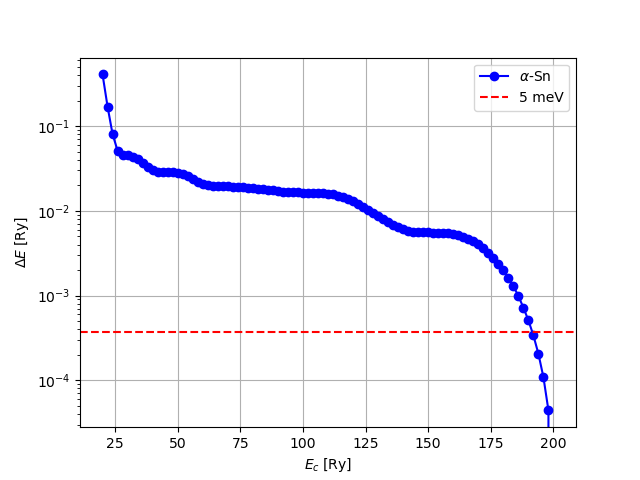
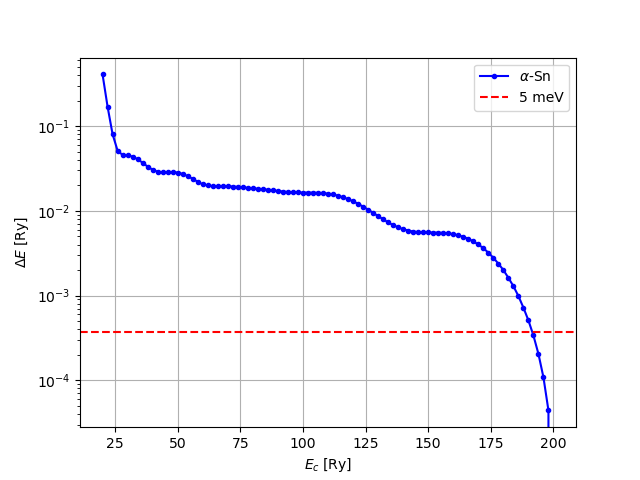
got references and finished all code

diff --git a/exercise-4/Si.py b/exercise-4/Si.py
@@ -224,31 +224,82 @@ def plot_4(filename1, filename2, filename3, filename4):
     fig, ax = plt.subplots(2, 2, figsize=(12, 10), sharex='col', sharey='row')
 
     ax[0, 0].plot(V, E, '.', label='QE data')
-    ax[0, 0].set_ylabel(r'Energy [Ry]')
-    ax[0, 0].legend()
+    ax[0, 0].set_ylabel(r'Energy [Ry]', fontsize=16)
+    ax[0, 0].legend(fontsize=12)
 
     ax[0, 1].plot(V, E, '.', label='QE data')
     ax[0, 1].plot(V, E_1, color='red', label='Murnaghan')
-    ax[0, 1].legend()
+    ax[0, 1].legend(fontsize=12)
 
     ax[1, 0].plot(V, E, '.', label='QE data')
     ax[1, 0].plot(V, E_2, color='red',label='Birch-Murnaghan')
-    ax[1, 0].set_xlabel(r'Volume [$\AA^3$]')
-    ax[1, 0].set_ylabel(r'Energy [Ry]')
-    ax[1, 0].legend()
+    ax[1, 0].set_xlabel(r'Volume [$\AA^3$]', fontsize=16)
+    ax[1, 0].set_ylabel(r'Energy [Ry]', fontsize=16)
+    ax[1, 0].legend(fontsize=12)
 
     ax[1, 1].plot(V, E, '.', label='QE data')
     ax[1, 1].plot(V, E_3, color='red', label='Vinet')
-    ax[1, 1].set_xlabel(r'Volume [$\AA^3$]')
-    ax[1, 1].legend()
+    ax[1, 1].set_xlabel(r'Volume [$\AA^3$]', fontsize=16)
+    ax[1, 1].legend(fontsize=12)
 
     plt.tight_layout()
     plt.show()
 
+def bulk_properties(filename):
+    """Determine the bulk properties of silicon from the fitted parameters 
+    of the three equations of state and write to file"""
+    data = pd.read_csv(filename)
+    V0_M = data["V0 [A^3/atom]"].values[0] * 1e-30 # convert from A^3 to m^3
+    B0_M = data["B0 [GPa]"].values[0]      * 1e9 # convert from GPa to Pa
+    V0_B = data["V0 [A^3/atom]"].values[1] * 1e-30 # convert from A^3 to m^3
+    B0_B = data["B0 [GPa]"].values[1]      * 1e9 # convert from GPa to Pa
+    V0_V = data["V0 [A^3/atom]"].values[2] * 1e-30 # convert from A^3 to m^3
+    B0_V = data["B0 [GPa]"].values[2]      * 1e9 # convert from GPa to Pa
+
+    h_cross = 1.054571726e-34 # Planck's constant in Js
+    m_si = 28.0855 * 1.66053906660e-27 # mass of silicon atom in kg
+    kB = 1.3806488e-23 # Boltzmann constant in J/K
+
+    # Calculate the mass density of Si from each EOS
+    rho_M = m_si / V0_M
+    rho_B = m_si / V0_B
+    rho_V = m_si / V0_V
+
+    # Calculate the sound velocity in Si from each EOS
+    cL_M = np.sqrt(B0_M / rho_M)
+    cL_B = np.sqrt(B0_B / rho_B)
+    cL_V = np.sqrt(B0_V / rho_V)
+
+    # Calculate the Debye temperature of Si from each EOS
+    kD_M = (6 * np.pi**2 / V0_M)**(1 / 3)
+    kD_B = (6 * np.pi**2 / V0_B)**(1 / 3)
+    kD_V = (6 * np.pi**2 / V0_V)**(1 / 3)
+
+    theta_M = h_cross * cL_M * kD_M / kB
+    theta_B = h_cross * cL_B * kD_B / kB
+    theta_V = h_cross * cL_V * kD_V / kB
+
+    # round results to 6 decimal places and write to file
+    rho_M = round(rho_M, 6)
+    rho_B = round(rho_B, 6)
+    rho_V = round(rho_V, 6)
+    cL_M = round(cL_M, 6)
+    cL_B = round(cL_B, 6)
+    cL_V = round(cL_V, 6)
+    theta_M = round(theta_M, 6)
+    theta_B = round(theta_B, 6)
+    theta_V = round(theta_V, 6)
+
+    df = pd.DataFrame(index=["Murnaghan", "Birch-Murnaghan", "Vinet"], columns=["Density [kg/m^3]", "Sound velocity [m/s]", "Debye temperature [K]"])
+    df.loc["Murnaghan"] = [rho_M, cL_M, theta_M]
+    df.loc["Birch-Murnaghan"] = [rho_B, cL_B, theta_B]
+    df.loc["Vinet"] = [rho_V, cL_V, theta_V]
+    df.to_csv("Si_bulk.txt", index=True, header=True)
 
 if __name__ == "__main__":
     filename1 = "Si-RyA.txt"
     filename2 = "Murnaghan_params.txt"
     filename3 = "Birch_params.txt"
     filename4 = "Vinet_params.txt"
-    convert(filename2, filename3, filename4)
+    filename5 = "EOS_parameters_converted.txt"
+    bulk_properties(filename5)

diff --git a/exercise-4/analysis3.1.py b/exercise-4/analysis3.1.py
@@ -58,7 +58,7 @@ def plot_convergence(filename, pos=-2, name='alpha'):
     tol_1meV = 1 / 13605.6931229947    # 1 meV in Ry
     tol_5meV = 5 / 13605.6931229947    # 5 meV in Ry
 
-    plt.plot(x, dy, marker='o', color='b', label=fr'$\{name}$-Sn')
+    plt.plot(x, dy, marker='.', color='b', label=fr'$\{name}$-Sn')
     plt.axhline(y=tol_5meV, color='r', linestyle='--', label='5 meV')
     #plt.axhline(y=tol_1meV, color='r', linestyle='--', label='1 meV')
     plt.yscale('log')
@@ -111,7 +111,7 @@ def energy_diff(file1, file2, pos=-2):
     dE = np.abs(dE1 - dE1[-1])
     tol_1meV = 1 / 13605.6931229947    # 1 meV in Ry
     
-    plt.plot(Ec1, dE, marker='o', color='b', label=r'$\Delta E$')
+    plt.plot(Ec1, dE, marker='.', color='b', label=r'$\Delta E$')
     plt.axhline(y=dE[-1]+tol_1meV, color='r', linestyle='--', label='1 meV')
     plt.legend()
     plt.yscale('log')
